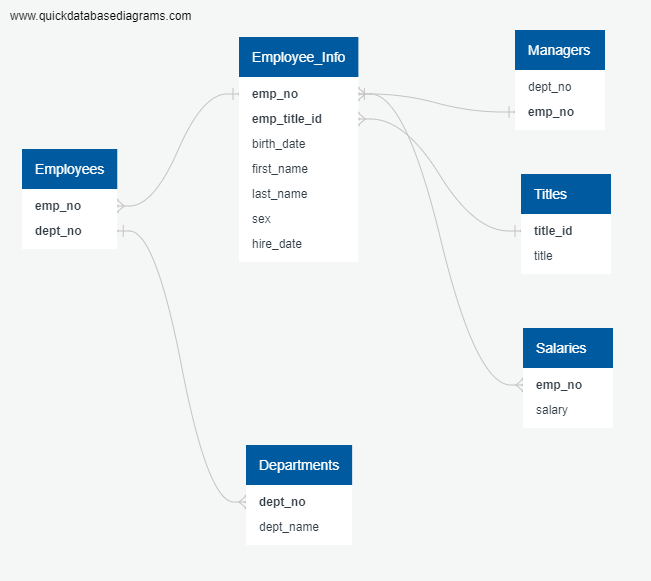
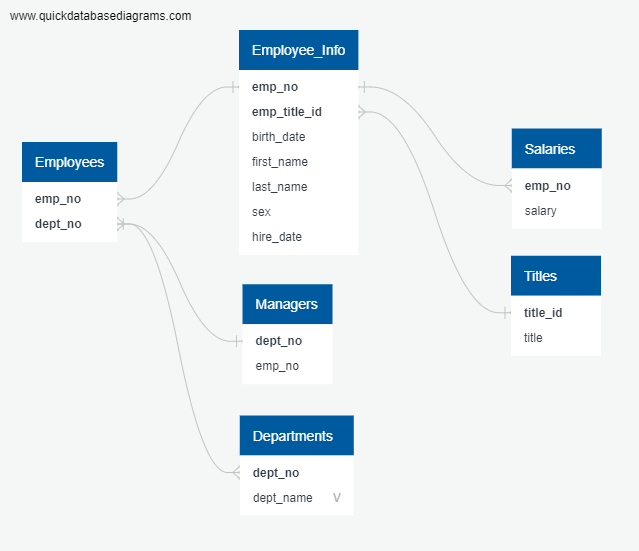
updates to README, QuickDBD, and table schemata

diff --git a/README.md b/README.md
@@ -42,9 +42,6 @@ In this challenge I analyzed employee data from a fictional company, Pewlett Hac
 
     ## "Baba" is the most common last name in the dataset, occuring 226 times. 
 
-# Notes: 
-
-When creating the table "dept_emp" csv, the data could not be uploaded if either of the columns were set as the primary key. I did not encounter this issue with any of the other tables. I also did not go back and update either of the columns to be the primary key as it was not necessary to completed the required analysis. 
 
 # Sources 
 
